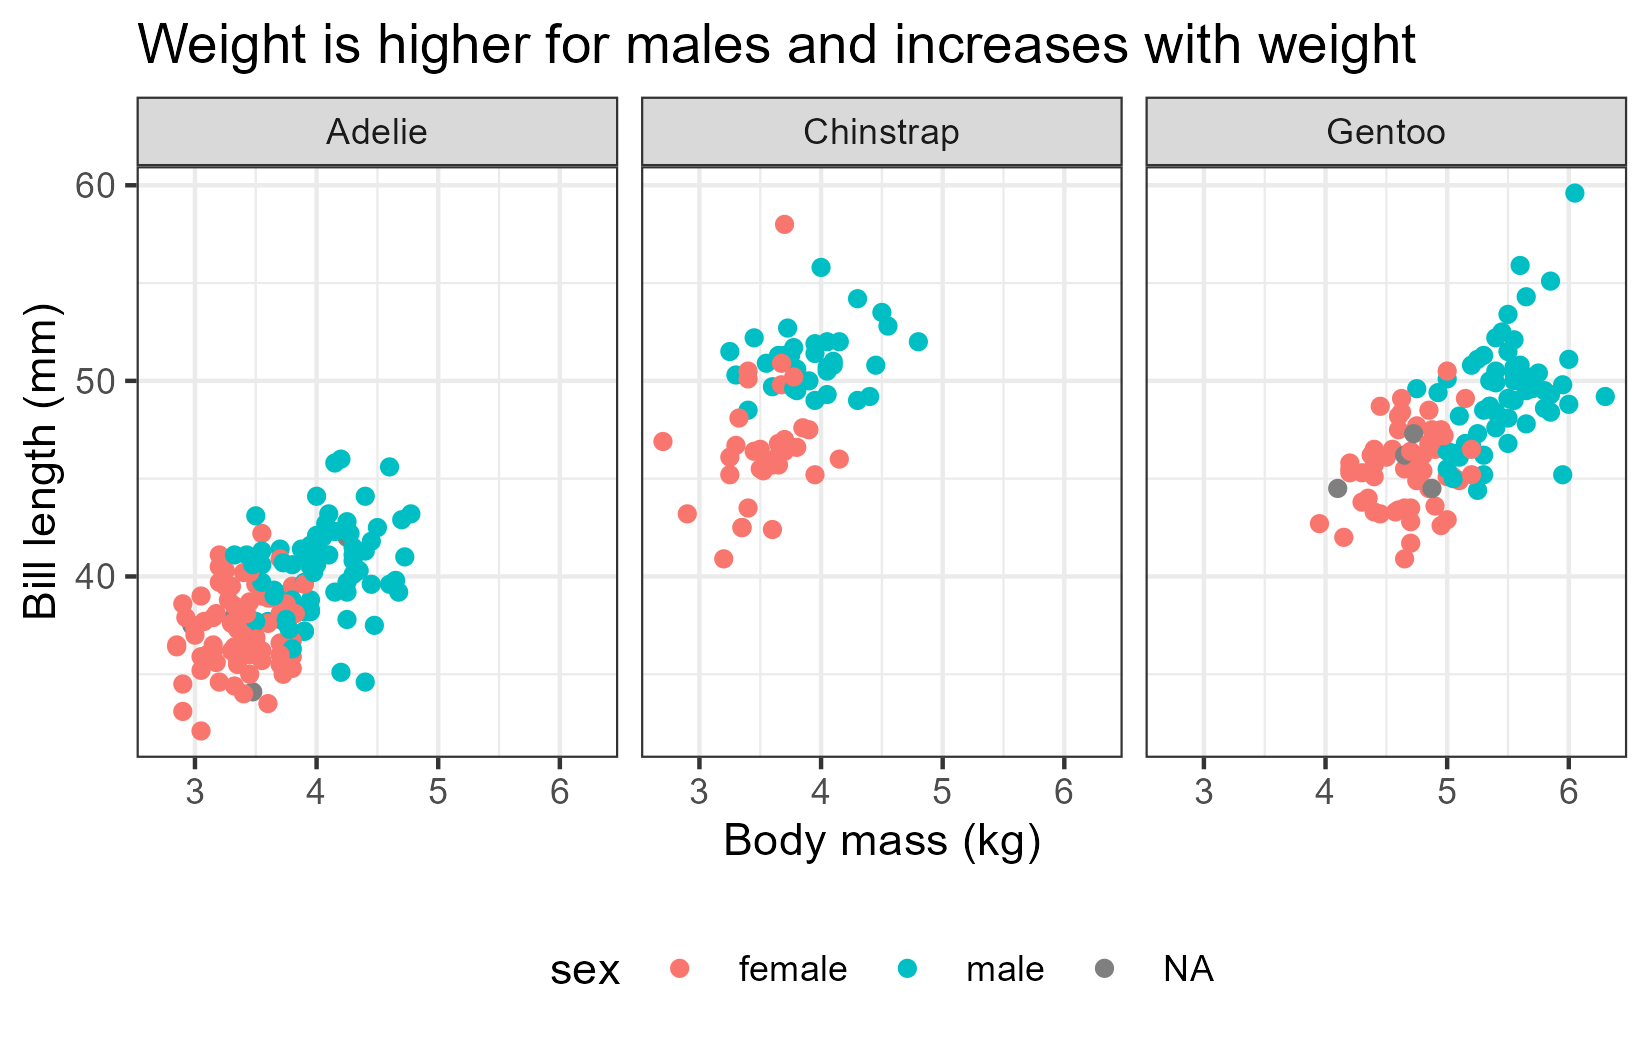
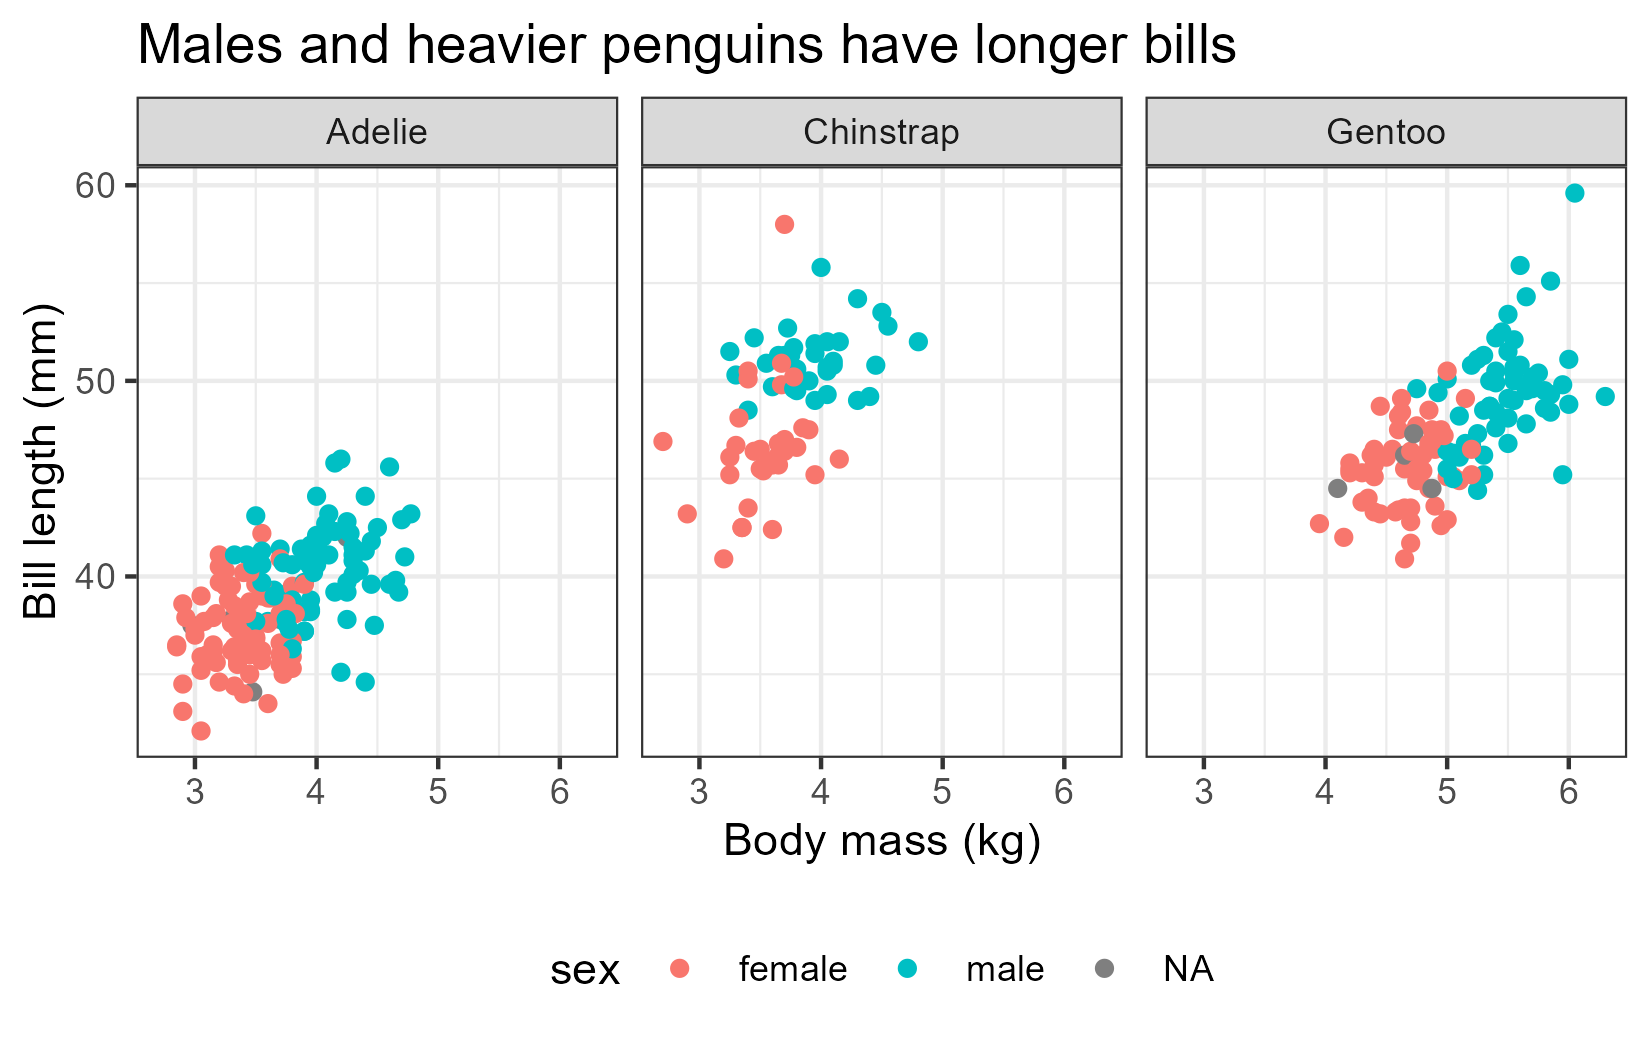
Fixed title in bill-len-assocs; syntax edits.

Changed region(s): [[0.0618, 0.0, 0.8655, 0.061]]

diff --git a/docs/tweaking-reg.html b/docs/tweaking-reg.html
@@ -483,7 +483,7 @@ window.Quarto = {
 <span id="cb3-14"><a href="#cb3-14" aria-hidden="true" tabindex="-1"></a>  <span class="fu">theme</span>(<span class="at">legend.position =</span> <span class="st">"none"</span>)</span></code></pre></div><button title="Copy to Clipboard" class="code-copy-button"><i class="bi"></i></button></div>
 </details>
 </div>
-<div id="fig-post-peng1" class="quarto-float quarto-figure quarto-figure-center anchored" height="3in" width="3.9in" data-fig-align="center">
+<div id="fig-post-peng1" class="quarto-float quarto-figure quarto-figure-center anchored" data-fig-align="center" width="3.9in" height="3in">
 <figure class="quarto-float quarto-float-fig figure">
 <div aria-describedby="fig-post-peng1-caption-0ceaefa1-69ba-4598-a22c-09a6ac19f8ca">
 <a href="./images/post-dist-peng1.png"><img src="./images/post-dist-peng1.png" class="quarto-figure quarto-figure-center figure-img" style="width:3.9in;height:3in"></a>
@@ -514,10 +514,10 @@ sigma     0.46      0.02     0.43     0.50 1.00     3943     2698
 Draws were sampled using sample(hmc). For each parameter, Bulk_ESS
 and Tail_ESS are effective sample size measures, and Rhat is the potential
 scale reduction factor on split chains (at convergence, Rhat = 1).</code></pre>
-<p>The numerical summaries we met before have enriched their meaning: they capture different parts of the histograms in <a href="#fig-post-peng1" class="quarto-xref">Figure&nbsp;<span>4.1</span></a>. <code>Estimate</code> shows their mean (painted as black dots), <code>Est.Error</code> shows their standard errors, and l-95% CI and u-95% CI show their 5% and 95% quantiles of the histograms (painted as black bars).</p>
+<p>These numerical summaries have enriched their meaning: they capture different parts of the histograms in <a href="#fig-post-peng1" class="quarto-xref">Figure&nbsp;<span>4.1</span></a>. <code>Estimate</code> shows their mean (painted as black dots), <code>Est.Error</code> shows their standard errors, and l-95% CI and u-95% CI show their 5% and 95% quantiles of the histograms (painted as black bars).</p>
 <p>Other terms in the summary need elaboration, like chain, iter, warmup, Rhat, and Bulk_ESS and Tail_ESS. The formal definitions of these terms are <em>very</em> complicated, but an informal understanding is enough to fit almost all the models we need.</p>
 <p>The random draws we get form a sequence or <strong>chain</strong>. Also, to get each random draw, <code>brms</code> goes through a computational process that it calls an <strong>iteration</strong>. The first few draws are usually too inaccurate to be useful, so we have to let the chain discard some <strong>warmup</strong> iterations.</p>
-<p>Our penguin regression above used four chains, each of which had 2000 iterations—including warmup iterations, which we discard. Combining the post-warmup draws from all four chains gives us 4000 useful draws in total.</p>
+<p>Our penguin regression above used four chains, each of which had 2000 iterations, including warmup. Combining the post-warmup draws from all four chains gives us 4000 useful draws in total.</p>
 <p>For complicated mathematical reasons, draws from a given chain tend to be related to each other, which makes them less informative than if they were independent. The <strong>effective sample size (ESS)</strong> measures the equivalent number of random draws we would have if our iterations were independent. A higher ESS means more reliable estimates. <strong>Bulk ESS</strong> measures the reliability of the center (or bulk) of our posterior distribution, e.g., the number we see in the <code>Estimate</code> column. <strong>Tail ESS</strong> measures the reliability of the tails of the posterior distribution, e.g., the numbers in columns <code>l-95% CI</code> and <code>u-95% CI</code>. So, having both a high Bulk ESS and high Tail ESS suggest that our histograms as a whole are reliable.</p>
 <p>We want the effective sample size to be high enough to get stable estimates of uncertainty. In practice, this means that the ESS for all parameters should be above 400 in most models (see <span class="citation" data-cites="Vehtari_2021">Vehtari et al. (<a href="references.html#ref-Vehtari_2021" role="doc-biblioref">2021</a>)</span>), or at least 100 for special parameters in complicated models. Our penguin model above has way more ESS than this: the lowest Bulk ESS is 3794 (for the <code>Intercept</code>) and the lowest Tail ESS is 2698 (for the standard deviation <code>sigma</code>).</p>
 <p>Finally, our chain is supposed to get draws for all the relevant values of the parameter of interest. However, with complicated models or difficult data, a chain can get stuck in a few specific values, depriving us of an accurate description of the posterior distribution. To check that we are getting all the relevant values, we should check that multiple chains <em>converge</em> to the same random values. In practice, we should use at least four chains when fitting any model.</p>
@@ -570,7 +570,7 @@ scale reduction factor on split chains (at convergence, Rhat = 1).</code></pre>
 </section>
 <section id="turning-knobs-and-pushing-buttons" class="level2" data-number="4.3">
 <h2 data-number="4.3" class="anchored" data-anchor-id="turning-knobs-and-pushing-buttons"><span class="header-section-number">4.3</span> Turning knobs and pushing buttons</h2>
-<p>Our success in comparing penguins’ weight by species has made us more curious about these lovely amigos. Let us consider now, how much longer or shorter are the bills of male penguins compared to female penguins on average? Before we fit a regression, consider that bill length may be related to the size of the penguins, which in turn changes by sex and species. We can visualize these associations below:</p>
+<p>Our success in comparing penguins’ weight by species has made us more curious about these lovely amigos. Let us consider now, how much longer or shorter are the bills of male penguins compared to female penguins on average? Before we fit a regression, consider that bill length may be related to the size of the penguins, which in turn changes by sex and species. <a href="#fig-bill-len-assocs" class="quarto-xref">Figure&nbsp;<span>4.2</span></a> illustrates these associations.</p>
 <div class="cell" data-layout-align="center">
 <details class="code-fold">
 <summary>Code</summary>
@@ -580,7 +580,7 @@ scale reduction factor on split chains (at convergence, Rhat = 1).</code></pre>
 <span id="cb8-4"><a href="#cb8-4" aria-hidden="true" tabindex="-1"></a>) <span class="sc">+</span></span>
 <span id="cb8-5"><a href="#cb8-5" aria-hidden="true" tabindex="-1"></a>  <span class="fu">geom_point</span>() <span class="sc">+</span></span>
 <span id="cb8-6"><a href="#cb8-6" aria-hidden="true" tabindex="-1"></a>  <span class="fu">labs</span>(</span>
-<span id="cb8-7"><a href="#cb8-7" aria-hidden="true" tabindex="-1"></a>    <span class="at">title =</span> <span class="st">"Weight is higher for males and increases with weight"</span>,</span>
+<span id="cb8-7"><a href="#cb8-7" aria-hidden="true" tabindex="-1"></a>    <span class="at">title =</span> <span class="st">"Males and heavier penguins have longer bills"</span>,</span>
 <span id="cb8-8"><a href="#cb8-8" aria-hidden="true" tabindex="-1"></a>    <span class="at">x =</span> <span class="st">"Body mass (kg)"</span>,</span>
 <span id="cb8-9"><a href="#cb8-9" aria-hidden="true" tabindex="-1"></a>    <span class="at">y =</span> <span class="st">"Bill length (mm)"</span></span>
 <span id="cb8-10"><a href="#cb8-10" aria-hidden="true" tabindex="-1"></a>  ) <span class="sc">+</span></span>
@@ -589,7 +589,7 @@ scale reduction factor on split chains (at convergence, Rhat = 1).</code></pre>
 <span id="cb8-13"><a href="#cb8-13" aria-hidden="true" tabindex="-1"></a>  <span class="fu">theme</span>(<span class="at">legend.position =</span> <span class="st">"bottom"</span>)</span></code></pre></div><button title="Copy to Clipboard" class="code-copy-button"><i class="bi"></i></button></div>
 </details>
 </div>
-<div id="fig-bill-len-assocs" class="quarto-float quarto-figure quarto-figure-center anchored" width="5.5in" data-fig-align="center">
+<div id="fig-bill-len-assocs" class="quarto-float quarto-figure quarto-figure-center anchored" data-fig-align="center" width="5.5in">
 <figure class="quarto-float quarto-float-fig figure">
 <div aria-describedby="fig-bill-len-assocs-caption-0ceaefa1-69ba-4598-a22c-09a6ac19f8ca">
 <a href="./images/bill-len-assocs.png"><img src="./images/bill-len-assocs.png" class="img-fluid quarto-figure quarto-figure-center figure-img" style="width:5.5in"></a>
@@ -718,7 +718,7 @@ scale reduction factor on split chains (at convergence, Rhat = 1).</code></pre>
 <span id="cb17-32"><a href="#cb17-32" aria-hidden="true" tabindex="-1"></a>    <span class="at">size =</span> <span class="dv">1</span></span>
 <span id="cb17-33"><a href="#cb17-33" aria-hidden="true" tabindex="-1"></a>  )</span></code></pre></div><button title="Copy to Clipboard" class="code-copy-button"><i class="bi"></i></button></div>
 </div>
-<div id="fig-bill-len1-regline" class="quarto-float quarto-figure quarto-figure-center anchored" width="5.5in" data-fig-align="center">
+<div id="fig-bill-len1-regline" class="quarto-float quarto-figure quarto-figure-center anchored" data-fig-align="center" width="5.5in">
 <figure class="quarto-float quarto-float-fig figure">
 <div aria-describedby="fig-bill-len1-regline-caption-0ceaefa1-69ba-4598-a22c-09a6ac19f8ca">
 <a href="./images/bill-len1-regline.png"><img src="./images/bill-len1-regline.png" class="img-fluid quarto-figure quarto-figure-center figure-img" style="width:5.5in"></a>

diff --git a/docs/index.html b/docs/index.html
@@ -362,7 +362,7 @@ ul.task-list li input[type="checkbox"] {
 </header>
 
 
-<p>Last modified: 2026-07-22</p>
+<p>Last modified: 2026-07-23</p>
 <section id="preface" class="level1 unnumbered">
 <h1 class="unnumbered">Preface</h1>
 <p>These self-contained notes are intended for those that want a flexible R library to fit and visualize regressions and are willing or eager to do so with a Bayesian approach. To benefit from these notes it is necessary to know how functions, vectors, and data frames work in R, and to be familiar with linear regression. It is convenient but <em>not</em> necessary to be familiar with Bayesian statistics.</p>